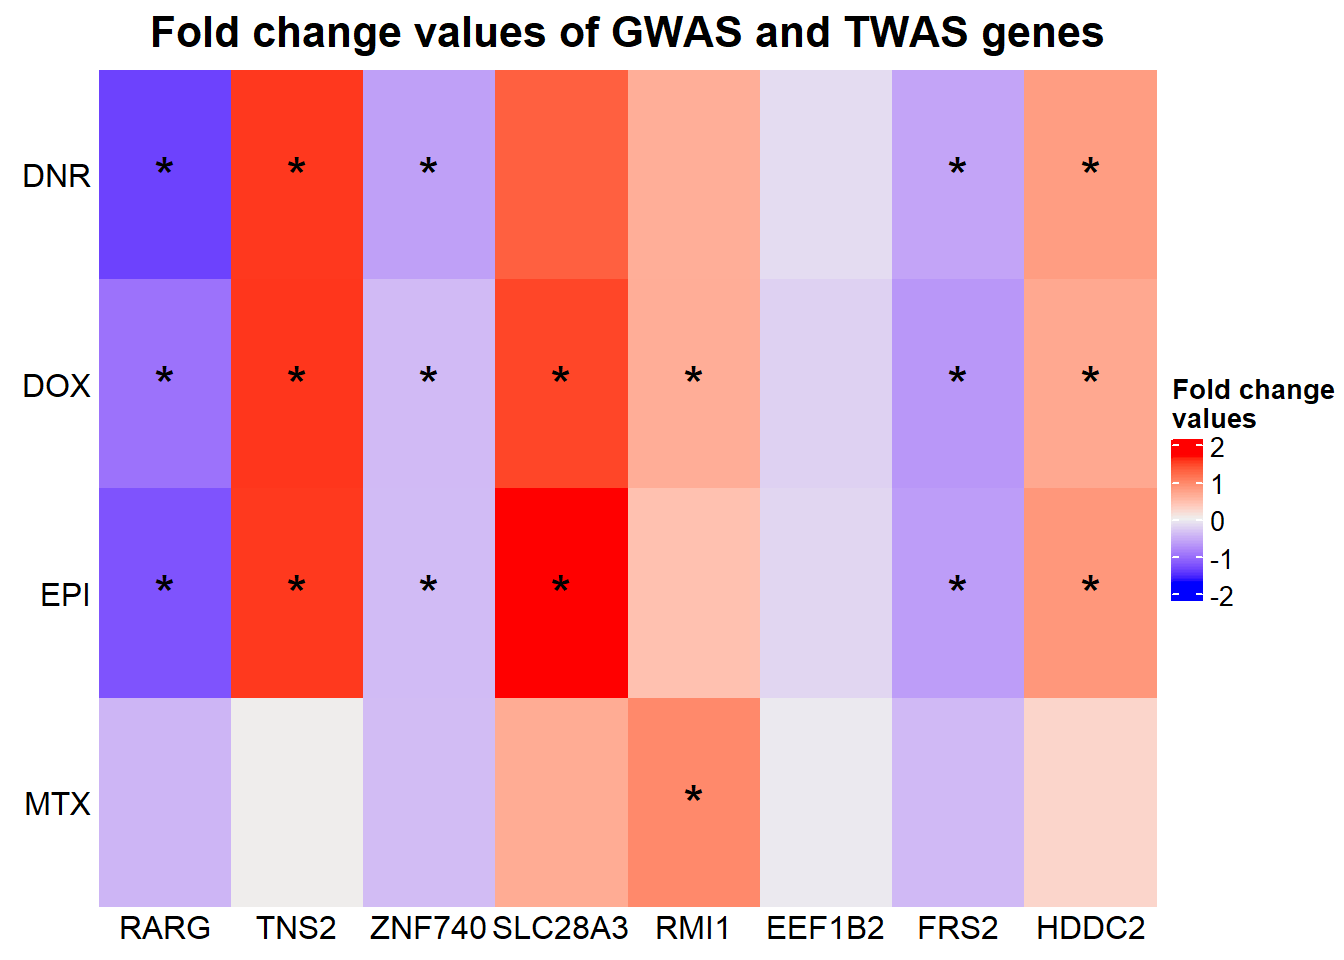
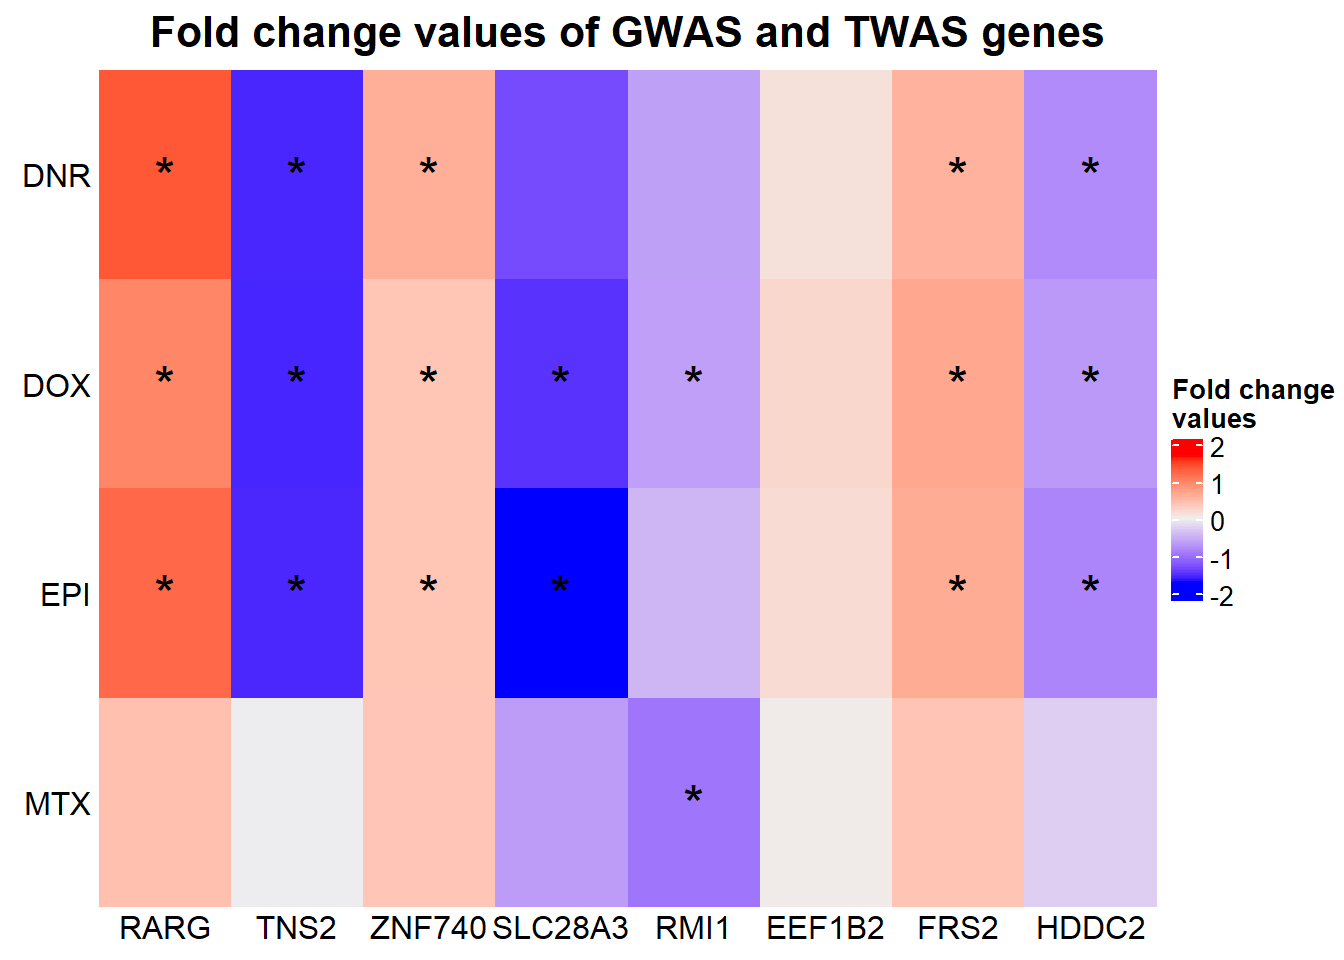
Build site.

diff --git a/docs/other_analysis.html b/docs/other_analysis.html
@@ -11,7 +11,7 @@
 
 <meta name="author" content="ERM" />
 
-<meta name="date" content="2023-06-16" />
+<meta name="date" content="2023-06-21" />
 
 <title>Comparisons with other data sets</title>
 
@@ -363,7 +363,7 @@ div.tocify {
 
 <h1 class="title toc-ignore">Comparisons with other data sets</h1>
 <h4 class="author">ERM</h4>
-<h4 class="date">2023-06-16</h4>
+<h4 class="date">2023-06-21</h4>
 
 </div>
 
@@ -392,7 +392,7 @@ class="glyphicon glyphicon-ok text-success" aria-hidden="true"></span>
 <div class="tab-content">
 <div id="summary" class="tab-pane fade in active">
 <p>
-<strong>Last updated:</strong> 2023-06-16
+<strong>Last updated:</strong> 2023-06-21
 </p>
 <p>
 <strong>Checks:</strong> <span
@@ -523,15 +523,15 @@ project makes it easier to run your code on other machines.</p>
 <div class="panel panel-default">
 <div class="panel-heading">
 <p class="panel-title">
-<a data-toggle="collapse" data-parent="#workflowr-checks" href="#strongRepositoryversionstrongahrefhttpsgithubcomreneeisnowhereCardiotoxicitytree751239eee41b19a825e580fce86d935777ef6160targetblank751239ea">
+<a data-toggle="collapse" data-parent="#workflowr-checks" href="#strongRepositoryversionstrongahrefhttpsgithubcomreneeisnowhereCardiotoxicitytree028f18d407e4a6736284c99e824f8a959cb7825etargetblank028f18da">
 <span class="glyphicon glyphicon-ok text-success"
 aria-hidden="true"></span> <strong>Repository version:</strong>
-<a href="https://github.com/reneeisnowhere/Cardiotoxicity/tree/751239eee41b19a825e580fce86d935777ef6160" target="_blank">751239e</a>
+<a href="https://github.com/reneeisnowhere/Cardiotoxicity/tree/028f18d407e4a6736284c99e824f8a959cb7825e" target="_blank">028f18d</a>
 </a>
 </p>
 </div>
 <div
[2 lines of base64/hex data omitted]
 class="panel-collapse collapse">
 <div class="panel-body">
 <p>
@@ -541,7 +541,7 @@ reproducibility.
 </p>
 <p>
 The results in this page were generated with repository version
-<a href="https://github.com/reneeisnowhere/Cardiotoxicity/tree/751239eee41b19a825e580fce86d935777ef6160" target="_blank">751239e</a>.
+<a href="https://github.com/reneeisnowhere/Cardiotoxicity/tree/028f18d407e4a6736284c99e824f8a959cb7825e" target="_blank">028f18d</a>.
 See the <em>Past versions</em> tab to see a history of the changes made
 to the R Markdown and HTML files.
 </p>
@@ -682,6 +682,7 @@ Untracked files:
     Untracked:  motif_LR.txt
     Untracked:  motif_NR.txt
     Untracked:  motif_TI.txt
+    Untracked:  output/Doxonly_deg.csv
     Untracked:  output/daplot.RDS
     Untracked:  output/dxplot.RDS
     Untracked:  output/epplot.RDS
@@ -690,6 +691,10 @@ Untracked files:
     Untracked:  output/trplot.RDS
     Untracked:  output/veplot.RDS
     Untracked:  reneebasecode.R
+
+Unstaged changes:
+    Modified:   analysis/Figure1.Rmd
+    Modified:   analysis/GTEx_genes.Rmd
 
 </code></pre>
 <p>
@@ -735,6 +740,40 @@ Message
 </tr>
 </thead>
 <tbody>
+<tr>
+<td>
+Rmd
+</td>
+<td>
+<a href="https://github.com/reneeisnowhere/Cardiotoxicity/blob/028f18d407e4a6736284c99e824f8a959cb7825e/analysis/other_analysis.Rmd" target="_blank">028f18d</a>
+</td>
+<td>
+reneeisnowhere
+</td>
+<td>
+2023-06-21
+</td>
+<td>
+update on Fold Change plot
+</td>
+</tr>
+<tr>
+<td>
+html
+</td>
+<td>
+<a href="https://rawcdn.githack.com/reneeisnowhere/Cardiotoxicity/46436008ea4f77a7becdbb7bc3123afc5cf066b7/docs/other_analysis.html" target="_blank">4643600</a>
+</td>
+<td>
+reneeisnowhere
+</td>
+<td>
+2023-06-16
+</td>
+<td>
+Build site.
+</td>
+</tr>
 <tr>
 <td>
 Rmd
@@ -3766,6 +3805,10 @@ Mitoxantrone
 <p><img src="figure/other_analysis.Rmd/CAD%20heatmap-1.png" width="672" style="display: block; margin: auto;" /><img src="figure/other_analysis.Rmd/CAD%20heatmap-2.png" width="672" style="display: block; margin: auto;" /></p>
 <pre><code>[1] &quot;This is for  GWAS 24 hours -log(chi square pvalue)&quot;</code></pre>
 <p>The star represents chi square p.value &lt; 0.05.</p>
+</div>
+</div>
+<div id="gwas-heatmap" class="section level3">
+<h3>GWAS heatmap</h3>
 <pre class="r"><code># GWAS_goi &lt;- c(&#39;RARG&#39;, &#39;ITGB7&#39;, &#39;TNS2&#39;,&#39;ZNF740&#39;,&#39;SLC28A3&#39;,&#39;RMI1&#39;,
 # &#39;FEDORA&#39; ,&#39;GDF5&#39;,&#39;FRS2&#39;,&#39;HDDC2&#39;,&#39;EEF1B2&#39;)
 # 
@@ -3792,12 +3835,16 @@ GWASabsFCsig &lt;-
   mutate(time=factor(time, levels=c(&quot;3_hours&quot;,&quot;24_hours&quot;))) %&gt;%
   filter(ENTREZID %in% GWAS_goi$entrezgene_id) %&gt;% 
    filter(time ==&quot;24_hours&quot;) %&gt;% 
-  dplyr::select(ENTREZID ,time, id,logFC, adj.P.Val, SYMBOL) %&gt;% 
-  # filter(adj.P.Val &lt;0.05) %&gt;% 
-  mutate(id =case_match(id,&#39;Daunorubicin&#39;~&#39;DNR&#39;,&#39;Doxorubicin&#39;~&#39;DOX&#39;,&#39;Epirubicin&#39;~&#39;EPI&#39;,&#39;Mitoxantrone&#39;~&#39;MTX&#39;, .default = id)) %&gt;% 
-  # mutate(time =case_match(time,&quot;3_hours&quot;~&#39;3_hr&#39;,&quot;24_hours&quot;~&#39;24_hr&#39;,.default = time)) %&gt;% 
- # unite(&quot;trt_time&quot;,id:time,sep = &#39;_&#39;) %&gt;% 
-  pivot_wider(id_cols=id, names_from = SYMBOL, values_from =adj.P.Val)# %&gt;% 
+  dplyr::select(ENTREZID ,time, id,logFC, adj.P.Val, SYMBOL) %&gt;%
+  mutate(id =case_match(id,
+                        &#39;Daunorubicin&#39;~&#39;DNR&#39;,
+                        &#39;Doxorubicin&#39;~&#39;DOX&#39;,
+                        &#39;Epirubicin&#39;~&#39;EPI&#39;,
+                        &#39;Mitoxantrone&#39;~&#39;MTX&#39;,
+                        .default = id)) %&gt;% 
+  pivot_wider(id_cols=id, 
+              names_from = SYMBOL, 
+              values_from =adj.P.Val)
   
 gwas_sig_mat &lt;- GWASabsFCsig %&gt;% 
    column_to_rownames(var=&quot;id&quot;) %&gt;%
@@ -3809,13 +3856,17 @@ GWASabsFC &lt;- toplistall %&gt;%
   mutate(id = as.factor(id)) %&gt;%
   filter(id !=&quot;Trastuzumab&quot;) %&gt;% 
   filter(time==&quot;24_hours&quot;) %&gt;% 
-  # mutate(time=factor(time, levels=c(&quot;3_hours&quot;,&quot;24_hours&quot;))) %&gt;%
+  mutate(logFC= logFC*(-1)) %&gt;%
   filter(ENTREZID %in% GWAS_goi$entrezgene_id) %&gt;% 
   dplyr::select(SYMBOL ,time, id, logFC) %&gt;% 
-  mutate(id =case_match(id,&#39;Daunorubicin&#39;~&#39;DNR&#39;,&#39;Doxorubicin&#39;~&#39;DOX&#39;,&#39;Epirubicin&#39;~&#39;EPI&#39;,&#39;Mitoxantrone&#39;~&#39;MTX&#39;, .default = id)) %&gt;% 
-  # mutate(time =case_match(time,&quot;3_hours&quot;~&#39;3_hr&#39;,&quot;24_hours&quot;~&#39;24_hr&#39;,.default = time)) %&gt;%
-  # unite(&quot;trt_time&quot;,id:time,sep = &#39;_&#39;) %&gt;% 
-  pivot_wider(id_cols=id, names_from = SYMBOL, values_from = logFC) %&gt;% 
+  mutate(id =case_match(id,&#39;Daunorubicin&#39;~&#39;DNR&#39;, 
+                        &#39;Doxorubicin&#39;~&#39;DOX&#39;,
+                        &#39;Epirubicin&#39;~&#39;EPI&#39;,
+                        &#39;Mitoxantrone&#39;~&#39;MTX&#39;,
+                        .default = id)) %&gt;% 
+  pivot_wider(id_cols=id, 
+              names_from = SYMBOL, 
+              values_from = logFC) %&gt;% 
   column_to_rownames(var=&quot;id&quot;) %&gt;%
   as.matrix()
 
@@ -3846,7 +3897,6 @@ Heatmap(GWASabsFC, name = &quot;Fold change\nvalues&quot;,
 <p><img src="figure/other_analysis.Rmd/GWAS%20genes%20of%20interest-1.png" width="672" style="display: block; margin: auto;" /></p>
 <p>The stars represent all genes that have an adj. P. value of &lt; 0.05
 (significantly differentially expressed)</p>
-</div>
 </div>
 </div>
 <div id="crispr-list" class="section level2">
